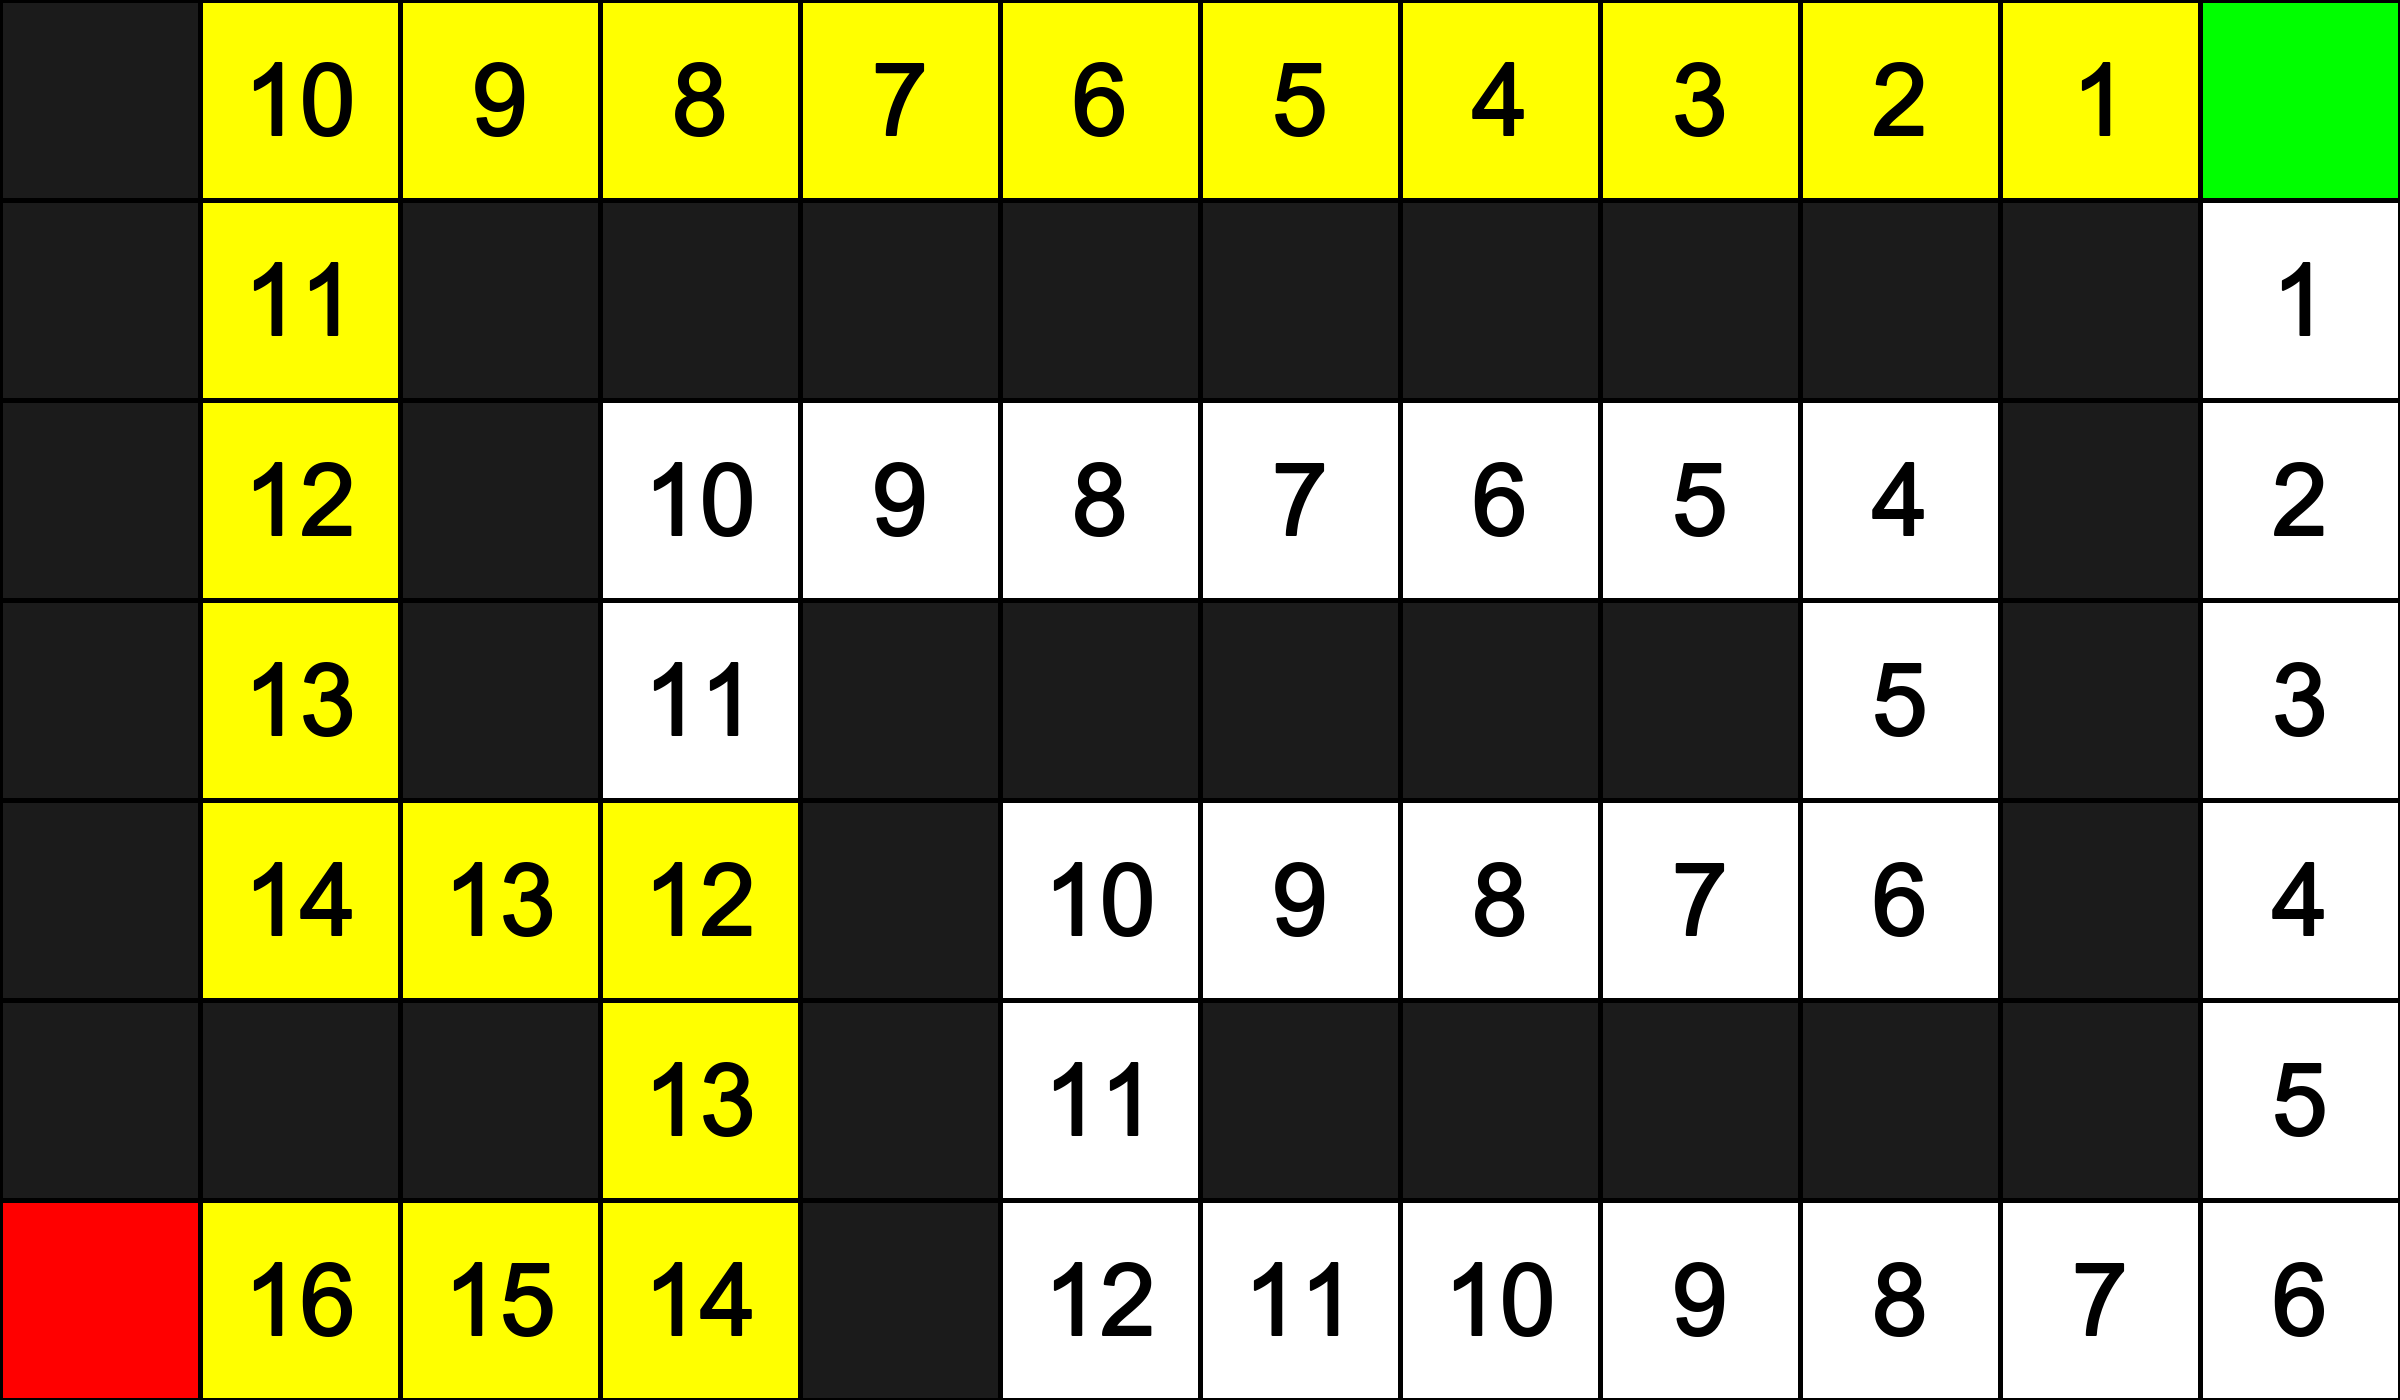
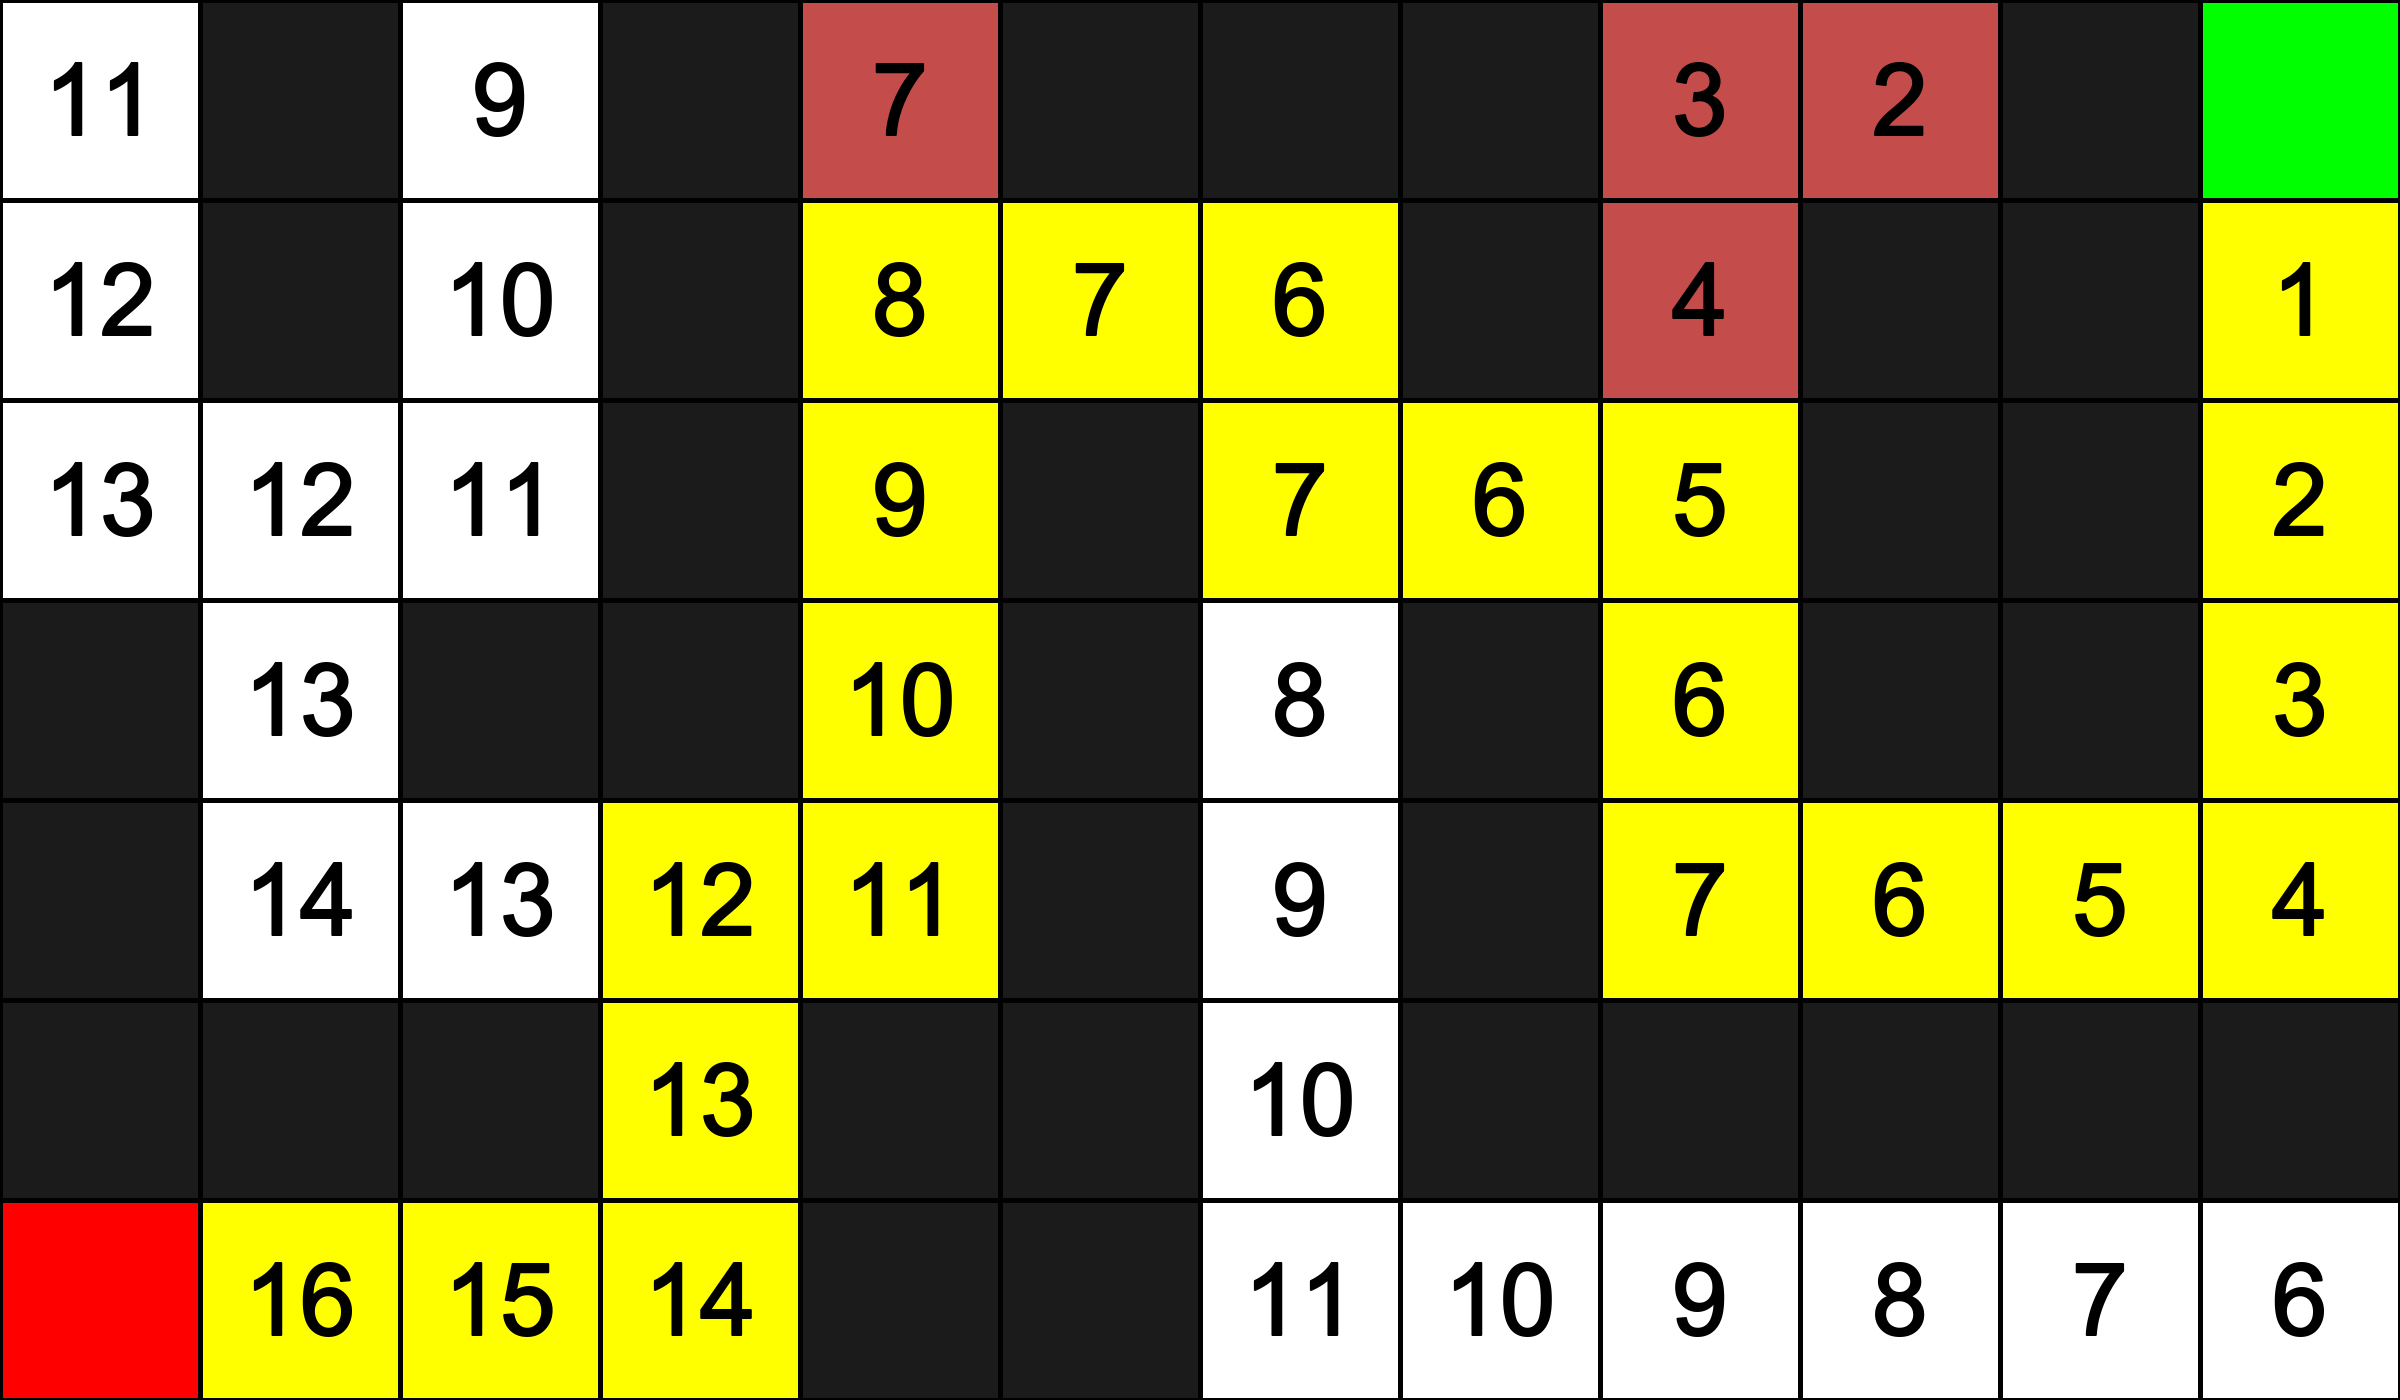
updated heuristic function for greedy bfs

diff --git a/maze/maze.py b/maze/maze.py
@@ -217,7 +217,7 @@ class Maze:
                 raise Exception("no solution")
 
             if self.gbfs:
-                node = frontier.remove_smallest_node(self.__distance_to_goal)
+                node = frontier.remove_smallest_node(self.__heuristic)
             else:
                 node = frontier.remove()
             self.num_explored += 1
@@ -244,9 +244,9 @@ class Maze:
     def __valid_state(self, frontier, state):
         return not frontier.contains_state(state) and state not in self.explored
 
-    def __distance_to_goal(self, state):
+    def __heuristic(self, state):
         (r, c) = state
-        return pow(self.goal[1] - c, 2) + pow(self.goal[0] - r, 2)
+        return abs(self.goal[1] - c) + abs(self.goal[0] - r)
 
 
 if __name__ == "__main__":
